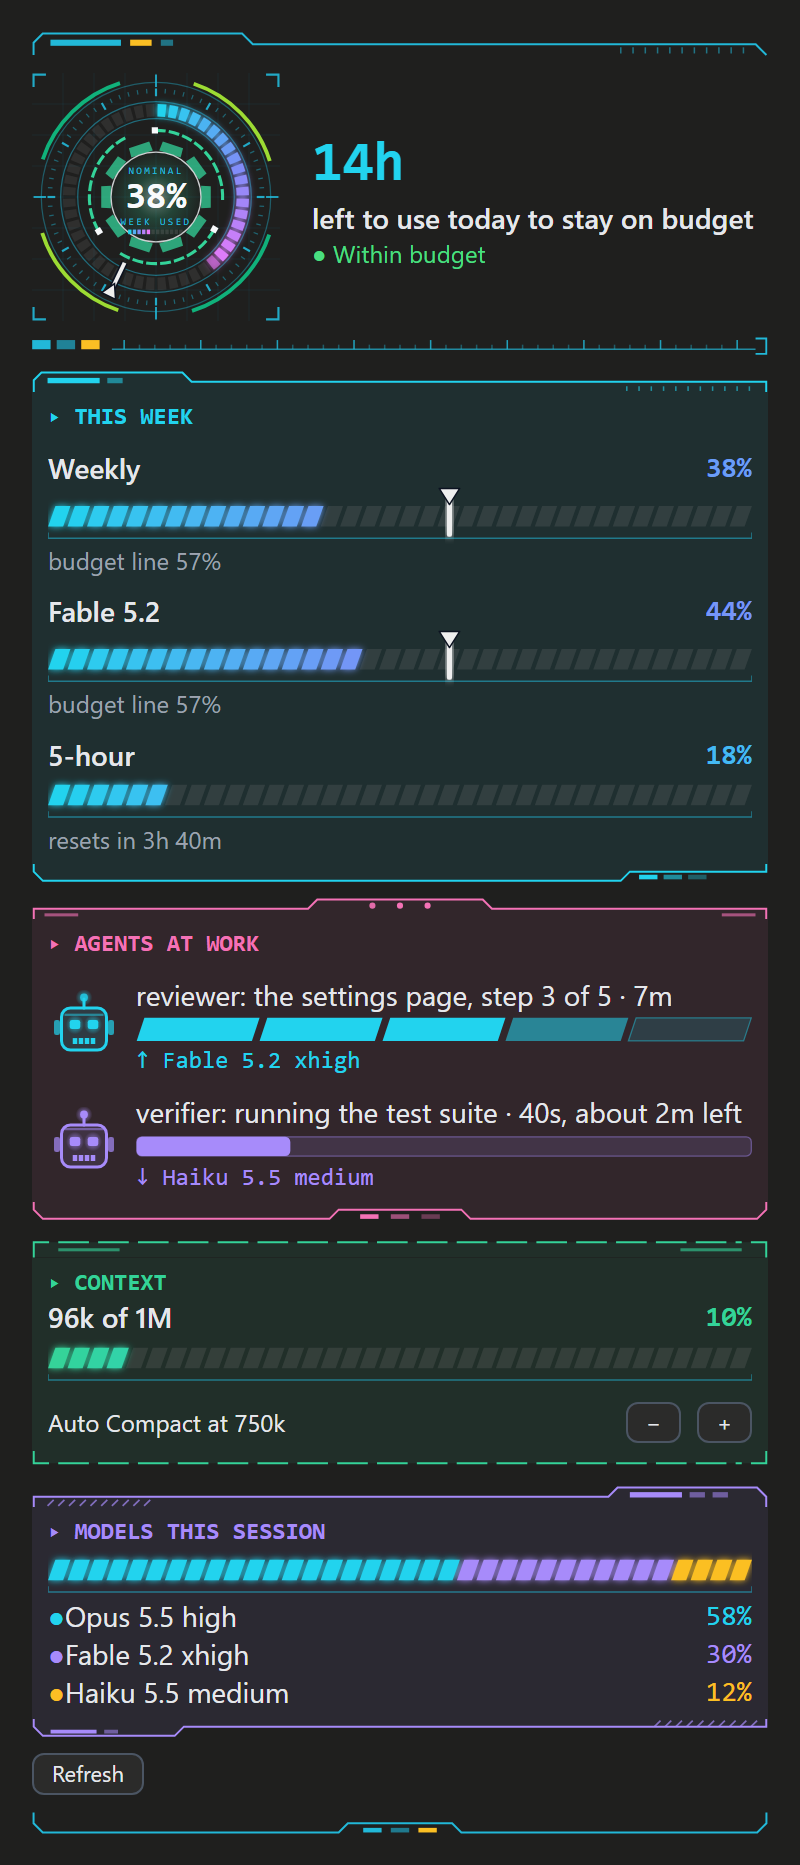
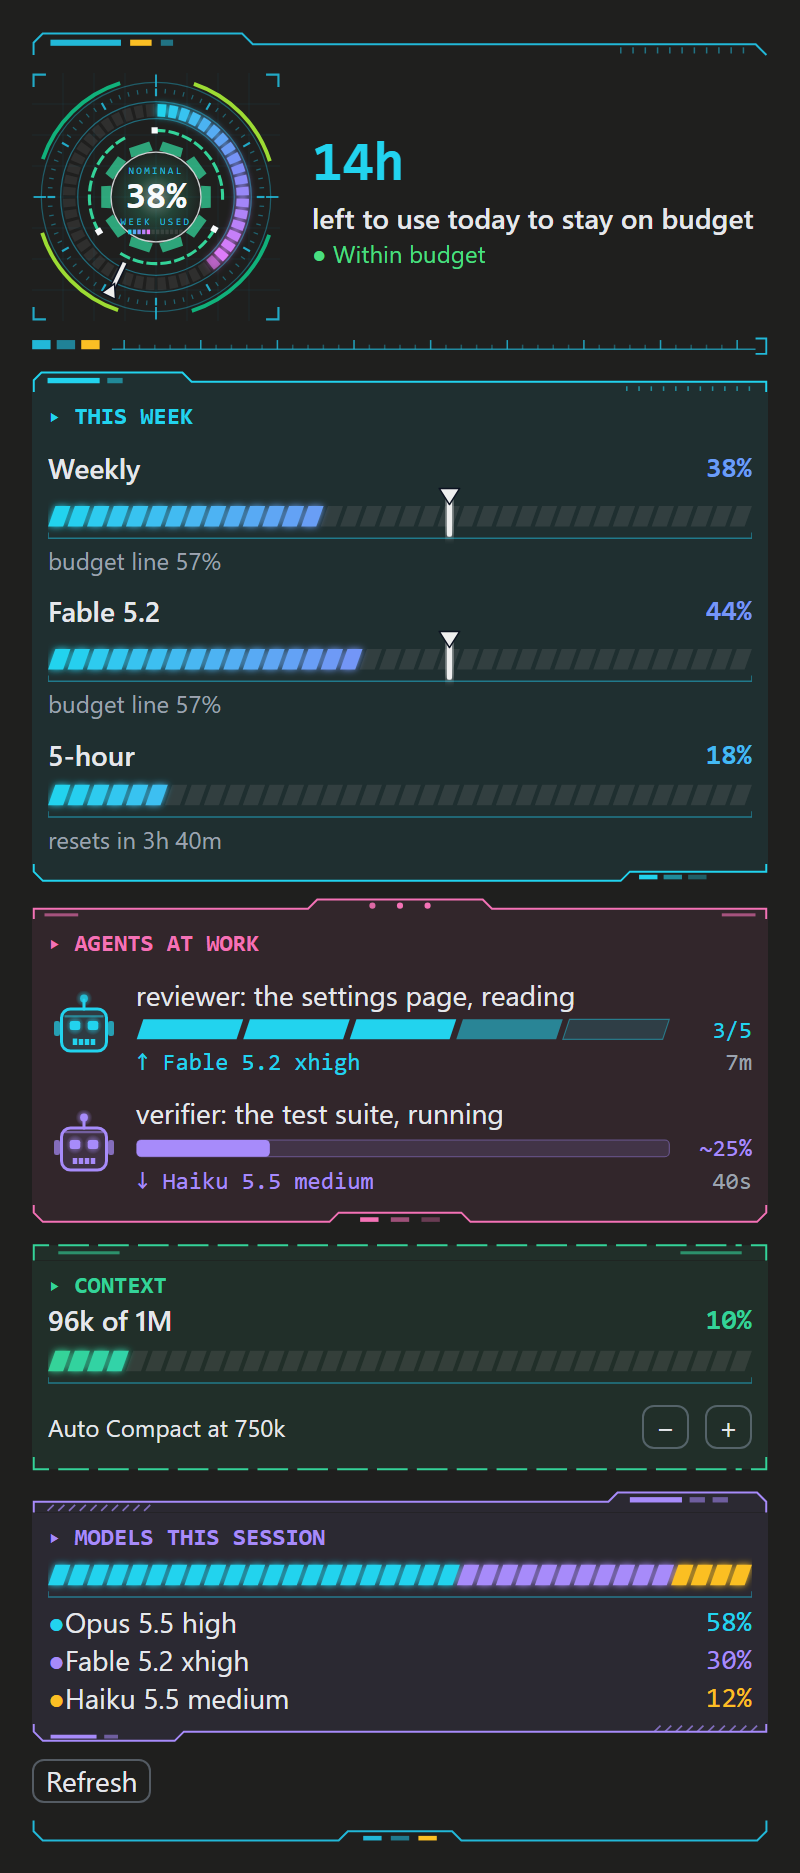
Small buttons that are small; an agent's progress beside its bar, its time in a fixed place; pacing 0.9.51
- Compact, − and +, and Refresh are now the desktop's plain button in an outline pacing draws, about 22 px high where the app's own button is 32. The app's own button has a fixed size and draws its label at body size whatever Text it holds, so 0.9.50's footnote Text changed nothing (and footnote is larger than caption).
- On a desktop an agent's progress is at the right end of its bar (2/4 for the steps it said, else ~60% by time), padded to one width so the bars end at one place.
- The time an agent has run is at the right end of the model line under the bar; the words above say neither figure, so nothing jumps when the words change. The terminal's rows are as they were.
- `scripts/pane-images.mjs` draws the plain button and the app's own at their real sizes; the README images are redrawn.

diff --git a/pacing/hooks/readings.test.ts b/pacing/hooks/readings.test.ts
@@ -4,8 +4,8 @@
 // the status line it sets. budget.mjs itself is tested under tests/ with
 // node --test.
 import { expect, mock, test } from 'claude-code/testing'
-import { OUT_FILL, stepsSvg, stepsText, STEPS_MAX, STEPS_H, DIALS, FRAMES, frameSvg, barSvg, overShade, overText, OVER_CALM, OVER_RED, ORANGE, YELLOW, HUD, breakable, BREAK_AT, PREM_CALM, PREM_YELLOW, PREM_RED, premShade, premText, LEVEL_COLORS, barText, robotSvg, reactorSvg, rulerSvg, drawingId, builtCount, buildsDone, MEMO_MAX, phased, phaseOf, DIAL_SIZE, paneView, ACCENTS, CONTEXT_WARM, CONTEXT_KEEP, contextShade, contextWarmAt, contextTone, SUCCESS_HEX, DIM_HEX, BUDGET_LINE, OVER_KEEP, kept, sweepAt } from './pane.mjs'
-import { pauseNote, pauseDue, unattended, statusText, fullText, HEAD_MAX, levelPhrase, offerText, nowText, COMPACT_INSTRUCTIONS, LINE_MAX, LINE_MAX_NARROW, lineMaxOf, READ_BACK_LAG, commandFailed, spentOf, recordArgv, MSG_MAX, TASK_MAX, agentPart, roleOf, startedText, doneText, progressText, backgroundText, estimateOf, median, keepRuns, RUNS_KEPT, stepOf, switchOffer, switchedText, countText, sessionRows, workingSessions, versionOf, reloadText, RELOADED, RELOAD_CHECK_EVERY, RELOAD_AFTER_TURN, usageOf, USAGE_TOOL, roleFor, shortModel, freshOf, freshNote, usageText, measureWhy, partOf, partText, ICON, TOAST_LONG, levelIcon, sessionStartedText, sessionDoneText, compactedText, compactFailedText, sharedOf, SHARED_EVERY, liveLeft, timeText, budgetWords, costText, SWITCH_LARGE, COMPACT_DROP, compactedBetween, contextLines, PANE_ID, PANE_CLOSED, closedByPerson, paneModel, PANE_TITLE, RUN_WAIT, COMPACT_WAIT_TEXT, COMPACT_RUN_WAIT, FAIL_SAY, failedText, staleLine, FAILED_NOTE, PRUNED, AGENT_GAP, switchWaitText, leftOf, leftText, usualText, budgetText, tokensText, spentUsd, CONFIG_FRESH, textsOf, taskStarted, taskEnded, taskRows, TASK_DONE_FOR, PANE_COMPACT_AT, FIVE_HOLD, levelToastText, levelStepText, levelToastDue, HELD_SWITCH_AT, viewDeniedText, SESSIONS_TOOL, AUTO_COMPACT_DEFAULT, AUTO_COMPACT_STEP, AUTO_COMPACT_OWN_TEXT, AUTO_COMPACT_OFF_TEXT, autoCompactOf, autoCompactFailedText, AUTO_COMPACT_BUFFER, autoCompactBuffer, autoCompactWindow, autoCompactHas, stepBarOf, modelArrow, modelIdOf, outLine, commandWhat, reportLines, finishedText, OUT_LINES, OUT_CHARS, OUT_SHOWN, OUT_MAIN, OUT_MAIN_CHARS, doneLine, finishedOut, changedLine, changedFile, runKind, runLine, noteMeaning, meaningOf, contextAt } from './readings.mjs'
+import { PROG_CELLS, OUT_FILL, stepsSvg, stepsText, STEPS_MAX, STEPS_H, DIALS, FRAMES, frameSvg, barSvg, overShade, overText, OVER_CALM, OVER_RED, ORANGE, YELLOW, HUD, breakable, BREAK_AT, PREM_CALM, PREM_YELLOW, PREM_RED, premShade, premText, LEVEL_COLORS, barText, robotSvg, reactorSvg, rulerSvg, drawingId, builtCount, buildsDone, MEMO_MAX, phased, phaseOf, DIAL_SIZE, paneView, ACCENTS, CONTEXT_WARM, CONTEXT_KEEP, contextShade, contextWarmAt, contextTone, SUCCESS_HEX, DIM_HEX, BUDGET_LINE, OVER_KEEP, kept, sweepAt } from './pane.mjs'
+import { progFigure, pauseNote, pauseDue, unattended, statusText, fullText, HEAD_MAX, levelPhrase, offerText, nowText, COMPACT_INSTRUCTIONS, LINE_MAX, LINE_MAX_NARROW, lineMaxOf, READ_BACK_LAG, commandFailed, spentOf, recordArgv, MSG_MAX, TASK_MAX, agentPart, roleOf, startedText, doneText, progressText, backgroundText, estimateOf, median, keepRuns, RUNS_KEPT, stepOf, switchOffer, switchedText, countText, sessionRows, workingSessions, versionOf, reloadText, RELOADED, RELOAD_CHECK_EVERY, RELOAD_AFTER_TURN, usageOf, USAGE_TOOL, roleFor, shortModel, freshOf, freshNote, usageText, measureWhy, partOf, partText, ICON, TOAST_LONG, levelIcon, sessionStartedText, sessionDoneText, compactedText, compactFailedText, sharedOf, SHARED_EVERY, liveLeft, timeText, budgetWords, costText, SWITCH_LARGE, COMPACT_DROP, compactedBetween, contextLines, PANE_ID, PANE_CLOSED, closedByPerson, paneModel, PANE_TITLE, RUN_WAIT, COMPACT_WAIT_TEXT, COMPACT_RUN_WAIT, FAIL_SAY, failedText, staleLine, FAILED_NOTE, PRUNED, AGENT_GAP, switchWaitText, leftOf, leftText, usualText, budgetText, tokensText, spentUsd, CONFIG_FRESH, textsOf, taskStarted, taskEnded, taskRows, TASK_DONE_FOR, PANE_COMPACT_AT, FIVE_HOLD, levelToastText, levelStepText, levelToastDue, HELD_SWITCH_AT, viewDeniedText, SESSIONS_TOOL, AUTO_COMPACT_DEFAULT, AUTO_COMPACT_STEP, AUTO_COMPACT_OWN_TEXT, AUTO_COMPACT_OFF_TEXT, autoCompactOf, autoCompactFailedText, AUTO_COMPACT_BUFFER, autoCompactBuffer, autoCompactWindow, autoCompactHas, stepBarOf, modelArrow, modelIdOf, outLine, commandWhat, reportLines, finishedText, OUT_LINES, OUT_CHARS, OUT_SHOWN, OUT_MAIN, OUT_MAIN_CHARS, doneLine, finishedOut, changedLine, changedFile, runKind, runLine, noteMeaning, meaningOf, contextAt } from './readings.mjs'
 
 const RESET = '2026-11-19T12:00:00.000Z'
 const PRICES = {
@@ -1319,7 +1319,9 @@ test('a pane the engine does not place: /pacing-pane says why', async ($, on) =>
   expect((await $.command.run({ command: 'pacing-pane', args: '' } as any)).text).toBe('Pacing pane: not shown (no surface attached).')
   // the pane before any reading or turn
   const ui = await $.ui.mount(PANE)
-  expect((await ui.findAll({ type: 'Text' })).map((t: any) => t.text)).toEqual(['No reading yet in this session: /pacing usage takes one.', '▸ CONTEXT', 'Not measured yet; it shows after the next turn.', 'Auto Compact at 750k', '−', '+', 'Refresh'])
+  expect((await ui.findAll({ type: 'Text' })).map((t: any) => t.text)).toEqual(['No reading yet in this session: /pacing usage takes one.', '▸ CONTEXT', 'Not measured yet; it shows after the next turn.', 'Auto Compact at 750k'])
+  // (the small buttons are plain Buttons with a label since 0.9.51, no Text in them)
+  expect((await ui.findAll({ type: 'Button' })).map((b: any) => b.key ?? b.props?.key)).toEqual(['pacing-pane-autocompact-less', 'pacing-pane-autocompact-more', 'pacing-pane-refresh'])
   await ui.unmount()
 })
 
@@ -1672,7 +1674,10 @@ test('notify off: no toasts; the line still shows the agents', async ($, on) => 
   expect(seen.toasts).toEqual([])
 })
 
-test('an older engine without the agents list or timers: the line still counts, and a background agent is let go after two hours', async ($, on) => {
+// (two hours of the mock clock take about 2 s alone and passed 5 s while the
+// release ran its three checks at once, at 0.9.50 and twice at 0.9.51: its
+// own, longer, time)
+test('an older engine without the agents list or timers: the line still counts, and a background agent is let go after two hours', { timeoutMs: 20000 }, async ($, on) => {
   const status = engine(on)
   big(on)
   const clock = mock.clock(on, { now: T0 })
@@ -4649,7 +4654,9 @@ test('the agents\' rows on a desktop are text, no Button; after a "no main view 
   // the desktop: the row as text
   let ui = await $.ui.mount(PANE)
   expect(await agentButtons(ui)).toEqual([])
-  expect((await ui.findAll({ type: 'Text' })).map((t: any) => t.text).filter((t: string) => String(t).includes('read the logs'))).toEqual(['reader is running: read the logs 20s'])
+  expect((await ui.findAll({ type: 'Text' })).map((t: any) => t.text).filter((t: string) => String(t).includes('read the logs'))).toEqual(['reader: read the logs'])
+  // (its time has its own place, at the right under the words)
+  expect((await ui.findAll({ type: 'Text' })).map((t: any) => t.text)).toContain('20s')
   await ui.unmount()
   // the terminal: a Button, until the engine says it draws no main view
   ui = await $.ui.mount({ ...PANE, surface: 'terminal' } as any)
@@ -5195,19 +5202,24 @@ test('the pane\'s auto-compact row: its words with small − and + by 50k; none 
       expect(view(paneModel({ bd, autoCompact: ac }), surface).filter(n => n.type === 'Text' && String(n.props.children).includes('Auto-compact')).map(n => [n.props.children, n.props.dimColor, n.props.size])).toEqual([[text, true, 'caption']])
     }
   }
-  // small on the desktop: no label (a desktop draws a label in place of its children), a footnote Text in it (the smallest); the terminal keeps its label
+  // small on the desktop (0.9.51): a plain Button, which alone is smaller than the app's own, with its label, in a Box that draws its outline; the terminal keeps its label and variant
   const sign = (surface: string) => view(paneModel({ bd, autoCompact: 750000 }), surface).find(n => n.props && n.props.key === 'pacing-pane-autocompact-less')
+  const edged = (tree: any[], key: string) => tree.find(n => n.type === 'Box' && n.props.borderStyle === 'round' && [n.props.children].flat().some((c: any) => c && c.props && c.props.key === key))
   const d = sign('desktop')
-  expect([d.props.label, d.props.variant, d.props.children[0].props.size, d.props.children[0].props.children]).toEqual([undefined, 'secondary', 'footnote', '−'])
-  expect(sign('terminal').props.label).toBe('−')
+  expect([d.props.label, d.props.plain, d.props.variant, d.props.children]).toEqual(['−', true, undefined, undefined])
+  expect([sign('terminal').props.label, sign('terminal').props.plain, sign('terminal').props.variant]).toEqual(['−', undefined, 'secondary'])
+  expect(edged(view(paneModel({ bd, autoCompact: 750000 }), 'terminal'), 'pacing-pane-autocompact-less')).toBeUndefined()
   // Compact and Refresh the same small size (0.9.50), Compact with a line of room above it
   const big = { totalTokens: 400000, maxTokens: 1000000, rawMaxTokens: 1000000, percentage: 40, categories: [], modelWindow: 1000000 }
   const desk = view(paneModel({ bd: big, tokens: 400000, autoCompact: 750000 }), 'desktop', { onRefresh: () => {} })
-  for (const key of ['pacing-pane-compact', 'pacing-pane-refresh']) {
+  for (const [key, label] of [['pacing-pane-compact', 'Compact'], ['pacing-pane-refresh', 'Refresh'], ['pacing-pane-autocompact-less', '−'], ['pacing-pane-autocompact-more', '+']]) {
     const b = desk.find(n => n.props && n.props.key === key)
-    expect([key, b.props.label, b.props.children[0].props.size]).toEqual([key, undefined, 'footnote'])
+    expect([key, b.props.label, b.props.plain, b.props.variant]).toEqual([key, label, true, undefined])
+    // its outline: a Box round it alone, which does not shrink
+    const box = edged(desk, key)
+    expect([key, [box.props.children].flat().length, box.props.flexShrink, typeof box.props.borderColor]).toEqual([key, 1, 0, 'string'])
   }
-  expect(desk.find(n => n.type === 'Box' && [n.props.children].flat().some((c: any) => c && c.props && c.props.key === 'pacing-pane-compact')).props.marginTop).toBe(1)
+  expect(desk.find(n => n.type === 'Box' && !n.props.borderStyle && [n.props.children].flat().some((c: any) => c && c.type === 'Box' && [c.props.children].flat().some((k: any) => k && k.props && k.props.key === 'pacing-pane-compact'))).props.marginTop).toBe(1)
   const term = view(paneModel({ bd: big, tokens: 400000, autoCompact: 750000 }), 'terminal', { onRefresh: () => {} })
   expect(term.find(n => n.props && n.props.key === 'pacing-pane-refresh').props.label).toBe('Refresh')
   // one row: the words left, − and + at its right end
@@ -5411,6 +5423,41 @@ test('the box\'s main tasks: the files it changes, a test, check, build or lint 
   expect(finishedOut({}, 'stopped', '')).toEqual([])
 })
 
+test('an agent\'s figures have places of their own on the desktop: the progress at its bar\'s right end, the time at the right of the tag\'s line, the words without both', () => {
+  // the figure: the parts said, else the estimate by time, else none
+  const T = 1000000
+  expect(progFigure({ part: { done: 2, total: 4 }, startedAt: T }, T + 60000)).toBe('2/4')
+  expect(progFigure({ part: { done: 9, total: 4 }, startedAt: T }, T + 60000)).toBe('4/4')
+  expect(progFigure({ startedAt: T, runs: [600000, 600000, 600000] }, T + 150000)).toBe('~25%')
+  expect(progFigure({ startedAt: T }, T + 1000)).toBe('')
+  expect(PROG_CELLS).toBe(5)
+  const m = paneModel({ running: [
+    { id: 'a1', text: 'reader: read the logs, searching step 2 of 4, 3m', words: 'reader: read the logs, searching', prog: '2/4', time: '3m', model: null, on: 'Haiku 5.5 medium', bar: { done: 2, total: 4 } },
+    { id: 'a2', text: 'verifier: the suite, running ~60%, 40s', words: 'verifier: the suite, running', prog: '~60%', time: '40s', model: null, on: 'Haiku 5.5 medium', bar: { frac: 0.6 } },
+    // past its estimate: a figure and no bar; a side session: no model, no figure
+    { id: 'a3', text: 'tester: the build, running ~95%, 9m', words: 'tester: the build, running', prog: '~95%', time: '9m', model: null, on: 'Sonnet 5.5 medium', bar: null },
+    { id: null, text: 'side session Fix the docs 1m', words: 'side session Fix the docs', prog: '', time: '1m', model: null, on: '', bar: null },
+    // a row without the fields: as before
+    { id: 'a5', text: 'researcher: the API, on the web 2m', model: null, on: 'Sonnet 5.5 medium', bar: { frac: 0.5 } },
+  ] as any })
+  expect(m.running.map((x: any) => [x.words, x.prog, x.time])).toEqual([['reader: read the logs, searching', '2/4', '3m'], ['verifier: the suite, running', '~60%', '40s'], ['tester: the build, running', '~95%', '9m'], ['side session Fix the docs', '', '1m'], [undefined, undefined, undefined]])
+  const tree = nodes(paneView(TABLE, m, { surface: 'desktop', onAgent: () => {} }))
+  // the words say neither figure
+  expect(tree.filter(n => n.type === 'Button' && String(n.props.key).startsWith('pacing-agent-')).map(n => n.props.label)).toEqual(['reader: read the logs, searching', 'verifier: the suite, running', 'tester: the build, running', 'researcher: the API, on the web 2m'])
+  expect(tree.filter(n => n.type === 'Text').map(n => n.props.children)).toContain('side session Fix the docs')
+  // the bar and its figure in one row: the bar takes the room, the figure is PROG_CELLS wide in the mono face
+  const barRows = tree.filter(n => n.type === 'Box' && n.props.flexDirection === 'row' && [n.props.children].flat().some((c: any) => c && c.type === 'Box' && [c.props.children].flat().length === 1 && [c.props.children].flat().some((k: any) => k && k.type === 'Svg' && /^(Step|About)/.test(k.props.alt))))
+  expect(barRows.map(r => [r.props.children[0].props.flexGrow, r.props.children[0].props.minWidth, r.props.children[1].props.flexShrink, r.props.children[1].props.children[0].props.children, r.props.children[1].props.children[0].props.mono, r.props.children[1].props.children[0].props.tabular, r.props.children[1].props.children[0].props.wrap])).toEqual([[1, 0, 0, '  2/4', true, true, undefined], [1, 0, 0, ' ~60%', true, true, undefined]])
+  // the time at the right of the tag's line; a figure without a bar goes before it; without a tag the time alone, at the right
+  const timeRows = tree.filter(n => n.type === 'Box' && n.props.flexDirection === 'row' && [n.props.children].flat().some((c: any) => c && c.type === 'Box' && c.props.flexShrink === 0 && [c.props.children].flat().some((k: any) => k && k.type === 'Text' && k.props.tabular && k.props.dimColor)))
+  expect(timeRows.map(r => [r.props.justifyContent, r.props.children.length, r.props.children[r.props.children.length - 1].props.children[0].props.children])).toEqual([['space-between', 2, '3m'], ['space-between', 2, '40s'], ['space-between', 2, '~95% · 9m'], ['flex-end', 1, '1m']])
+  // the row without the fields: its bar alone under the words, its tag alone
+  expect(tree.filter(n => n.type === 'Svg' && /^About 50%/.test(n.props.alt)).length).toBe(1)
+  expect(barRows.length).toBe(2)
+  // the terminal keeps the whole words
+  const term = nodes(paneView(TABLE, m, { surface: 'terminal', onAgent: () => {} }))
+  expect(term.filter(n => n.type === 'Button' && n.props.plain).map(n => n.props.label)[0]).toBe('🤖 reader: read the logs, searching step 2 of 4, 3m (Haiku 5.5 medium)')
+})
 test('Agents at work never draws past the pane: every Box gives way, the words wrap with long runs made breakable, tags and output lines cut, the step bar scales', () => {
   const LONG = 'x'.repeat(200)
   expect(BREAK_AT).toBe(24)
@@ -5546,7 +5593,8 @@ test('an agent\'s box in the pane from what the engine hands the module: the fil
     return texts
   }
   // the box's lines: the Texts between the agent's model tag and the next section
-  const box = async () => { const t = await paneTexts(); return t.slice(t.indexOf('Haiku 5.5') + 1, t.indexOf('▸ CONTEXT')) }
+  // (the text right after the tag is the row's time, at the right of the tag's line since 0.9.51)
+  const box = async () => { const t = await paneTexts(); return t.slice(t.indexOf('Haiku 5.5') + 1, t.indexOf('▸ CONTEXT')).filter((x: string, i: number) => !(i === 0 && /^\d+[smh]$/.test(String(x)))) }
   const step = async (text: string) => { say = text; for await (const _ of ($.turn as any).step({ turnId: 't', index: 0, messageCount: 1, model: 'claude-haiku-5-5', agentId: 'ag1' })) { /* drained */ } }
   await $.session.measure(measure(10))
   await spawn($, 'pacing:reader', 'haiku', true, 'read the logs')

diff --git a/docs/auto-readings.md b/docs/auto-readings.md
@@ -1796,3 +1796,37 @@ then the size after; a `precompute` (a summary made ahead, nothing
 installed) changes nothing. /pacing-status still waits for a real breakdown.
 `node scripts/pane-images.mjs --html <file> [--before <pane.mjs>]` draws the
 samples side by side to one page, to see a layout change.
+
+## Small buttons that are small; an agent's figures in their own places (0.9.51)
+
+The user's word: the row says Auto Compact, but the buttons are not small.
+0.9.50's small button was a Button holding a footnote-size Text. The
+desktop app's stylesheet shows why that did nothing: its own button is
+2rem high with 0.75rem at each side and draws the label at body size,
+whatever Text it holds, and it has no size to ask for (and `footnote`,
+0.8125rem, is larger than `caption`, 0.75rem). The one smaller button a
+plugin can draw there is a `plain` one: a line high, 0.375rem at each
+side, no outline. So `small()` now draws a plain Button with its label in
+a Box that draws the outline (`borderStyle: 'round'`, the dim colour at
+`SMALL_EDGE`): about 22 px high where the app's own is 32, for Compact,
+Refresh, − and +. The label stays at body size; nothing a plugin passes
+changes that. The terminal is as it was.
+
+The user's word: a subagent's % progress can be next to its progress bar
+instead of in the text, and the time in a more static place, so it does
+not jump around when the text changes. On a desktop an agent's row now
+has:
+
+- its words without either figure (`words`: "reader: read the logs,
+  searching"),
+- its bar with the progress at the bar's right end (`prog`, from
+  `progFigure`: "2/4" for the steps it said, else "~60%" by time), padded
+  to `PROG_CELLS` characters in the mono face so every row's bar ends at
+  one place,
+- the tag's line with the time run at its right end (`time`); a figure
+  without a bar (an estimate the run has passed) goes before the time, and
+  a row without a tag (a side session) has the time alone, at the right.
+
+`paneNow` hands the three beside the row's `text`, which the terminal
+still draws whole, as does a row given without them. A finished run's row
+is as it was: its words no longer change.
